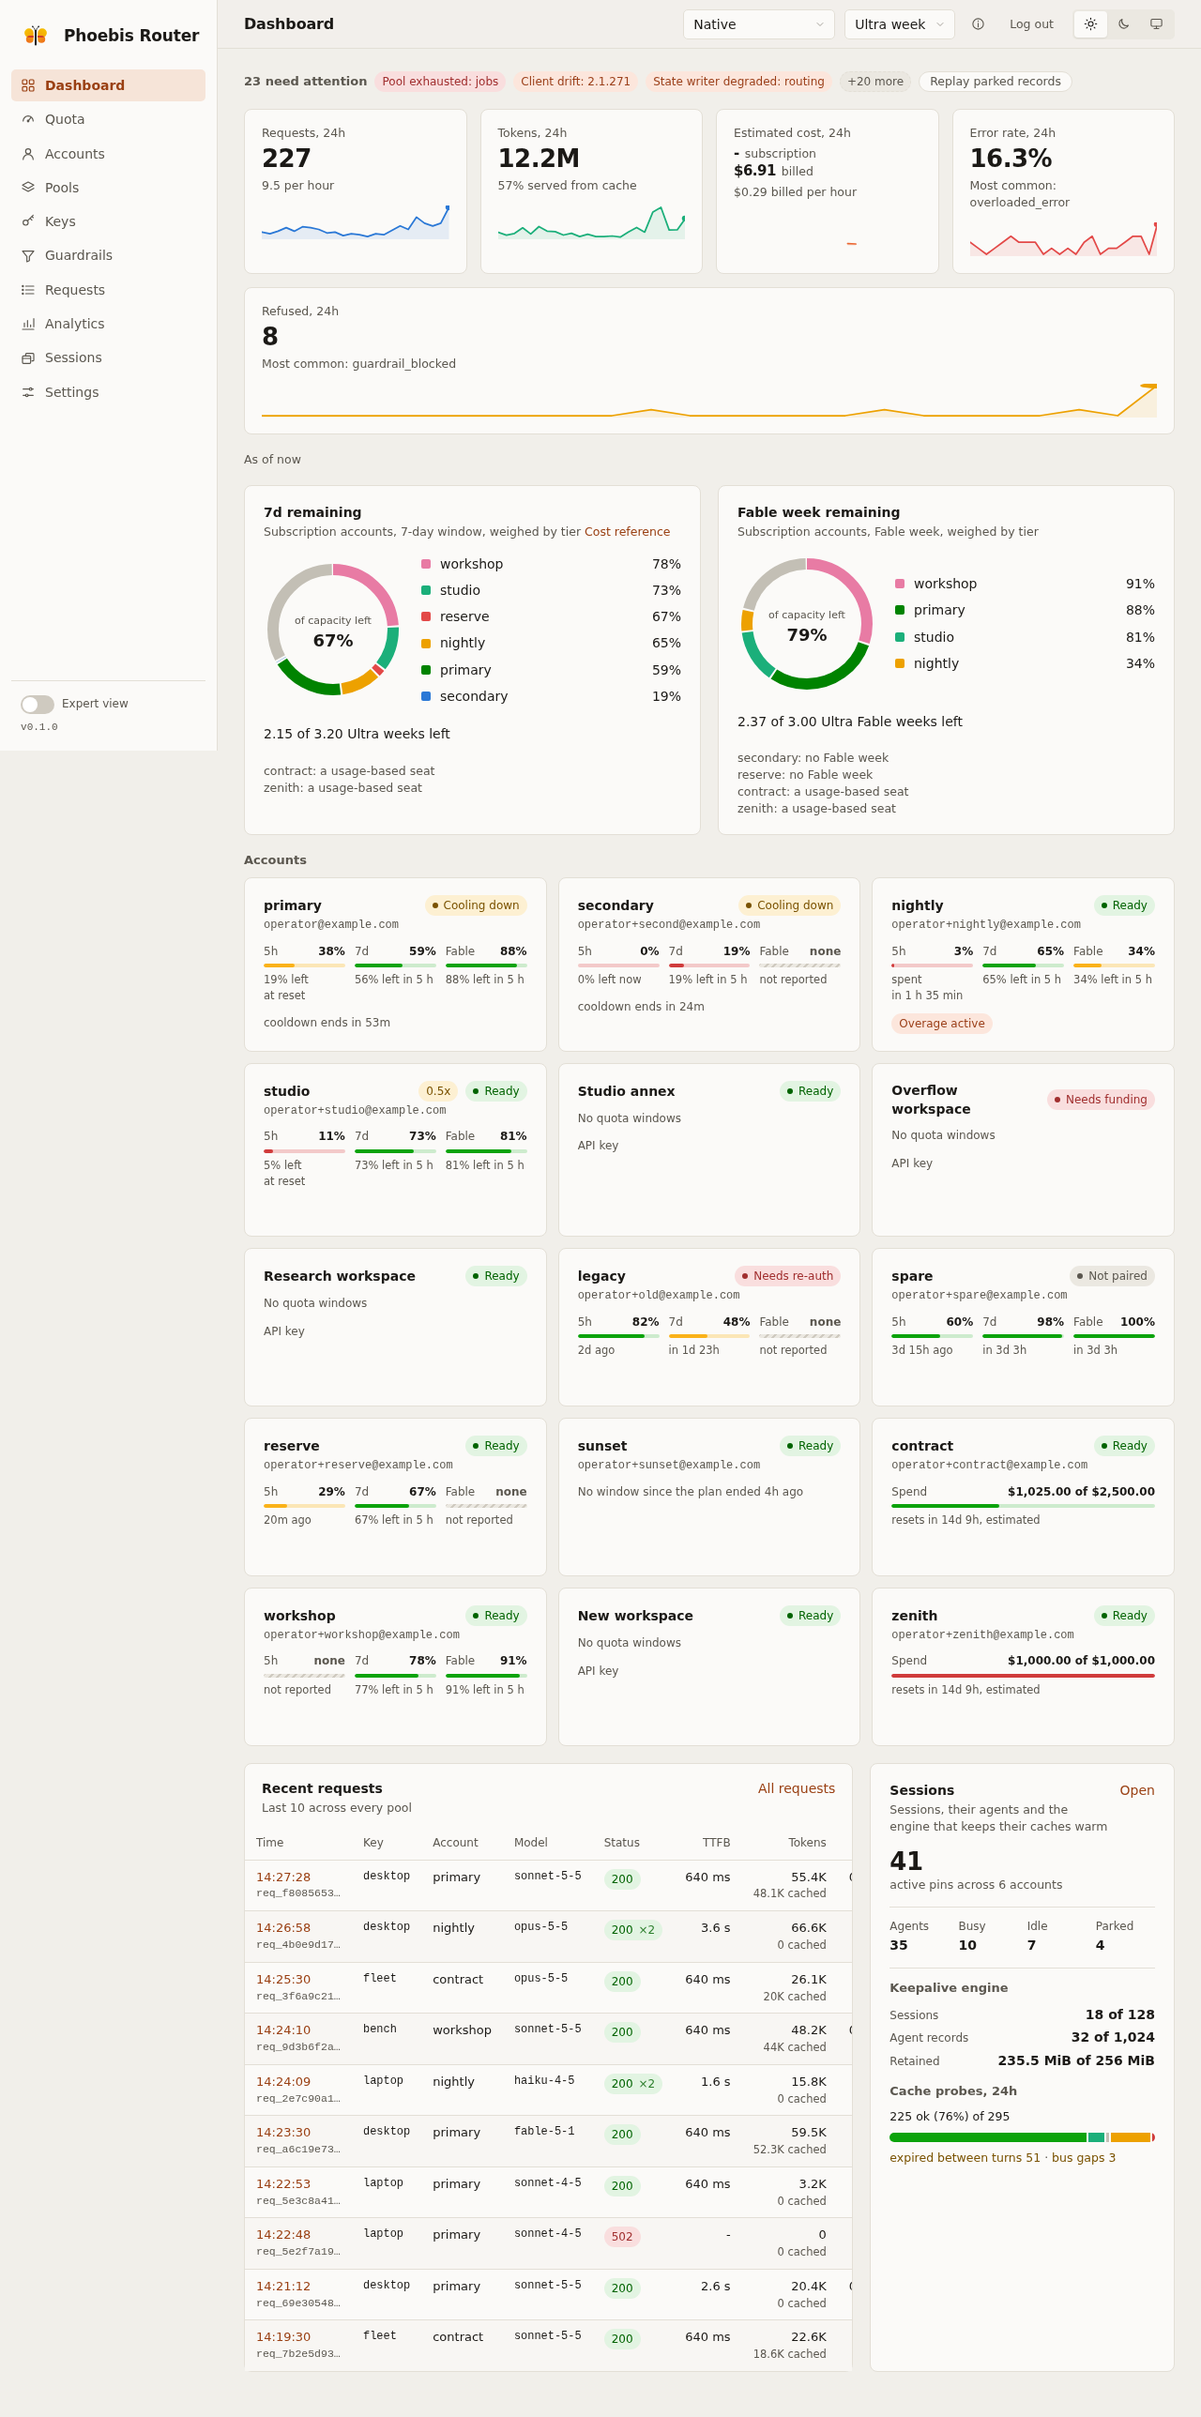
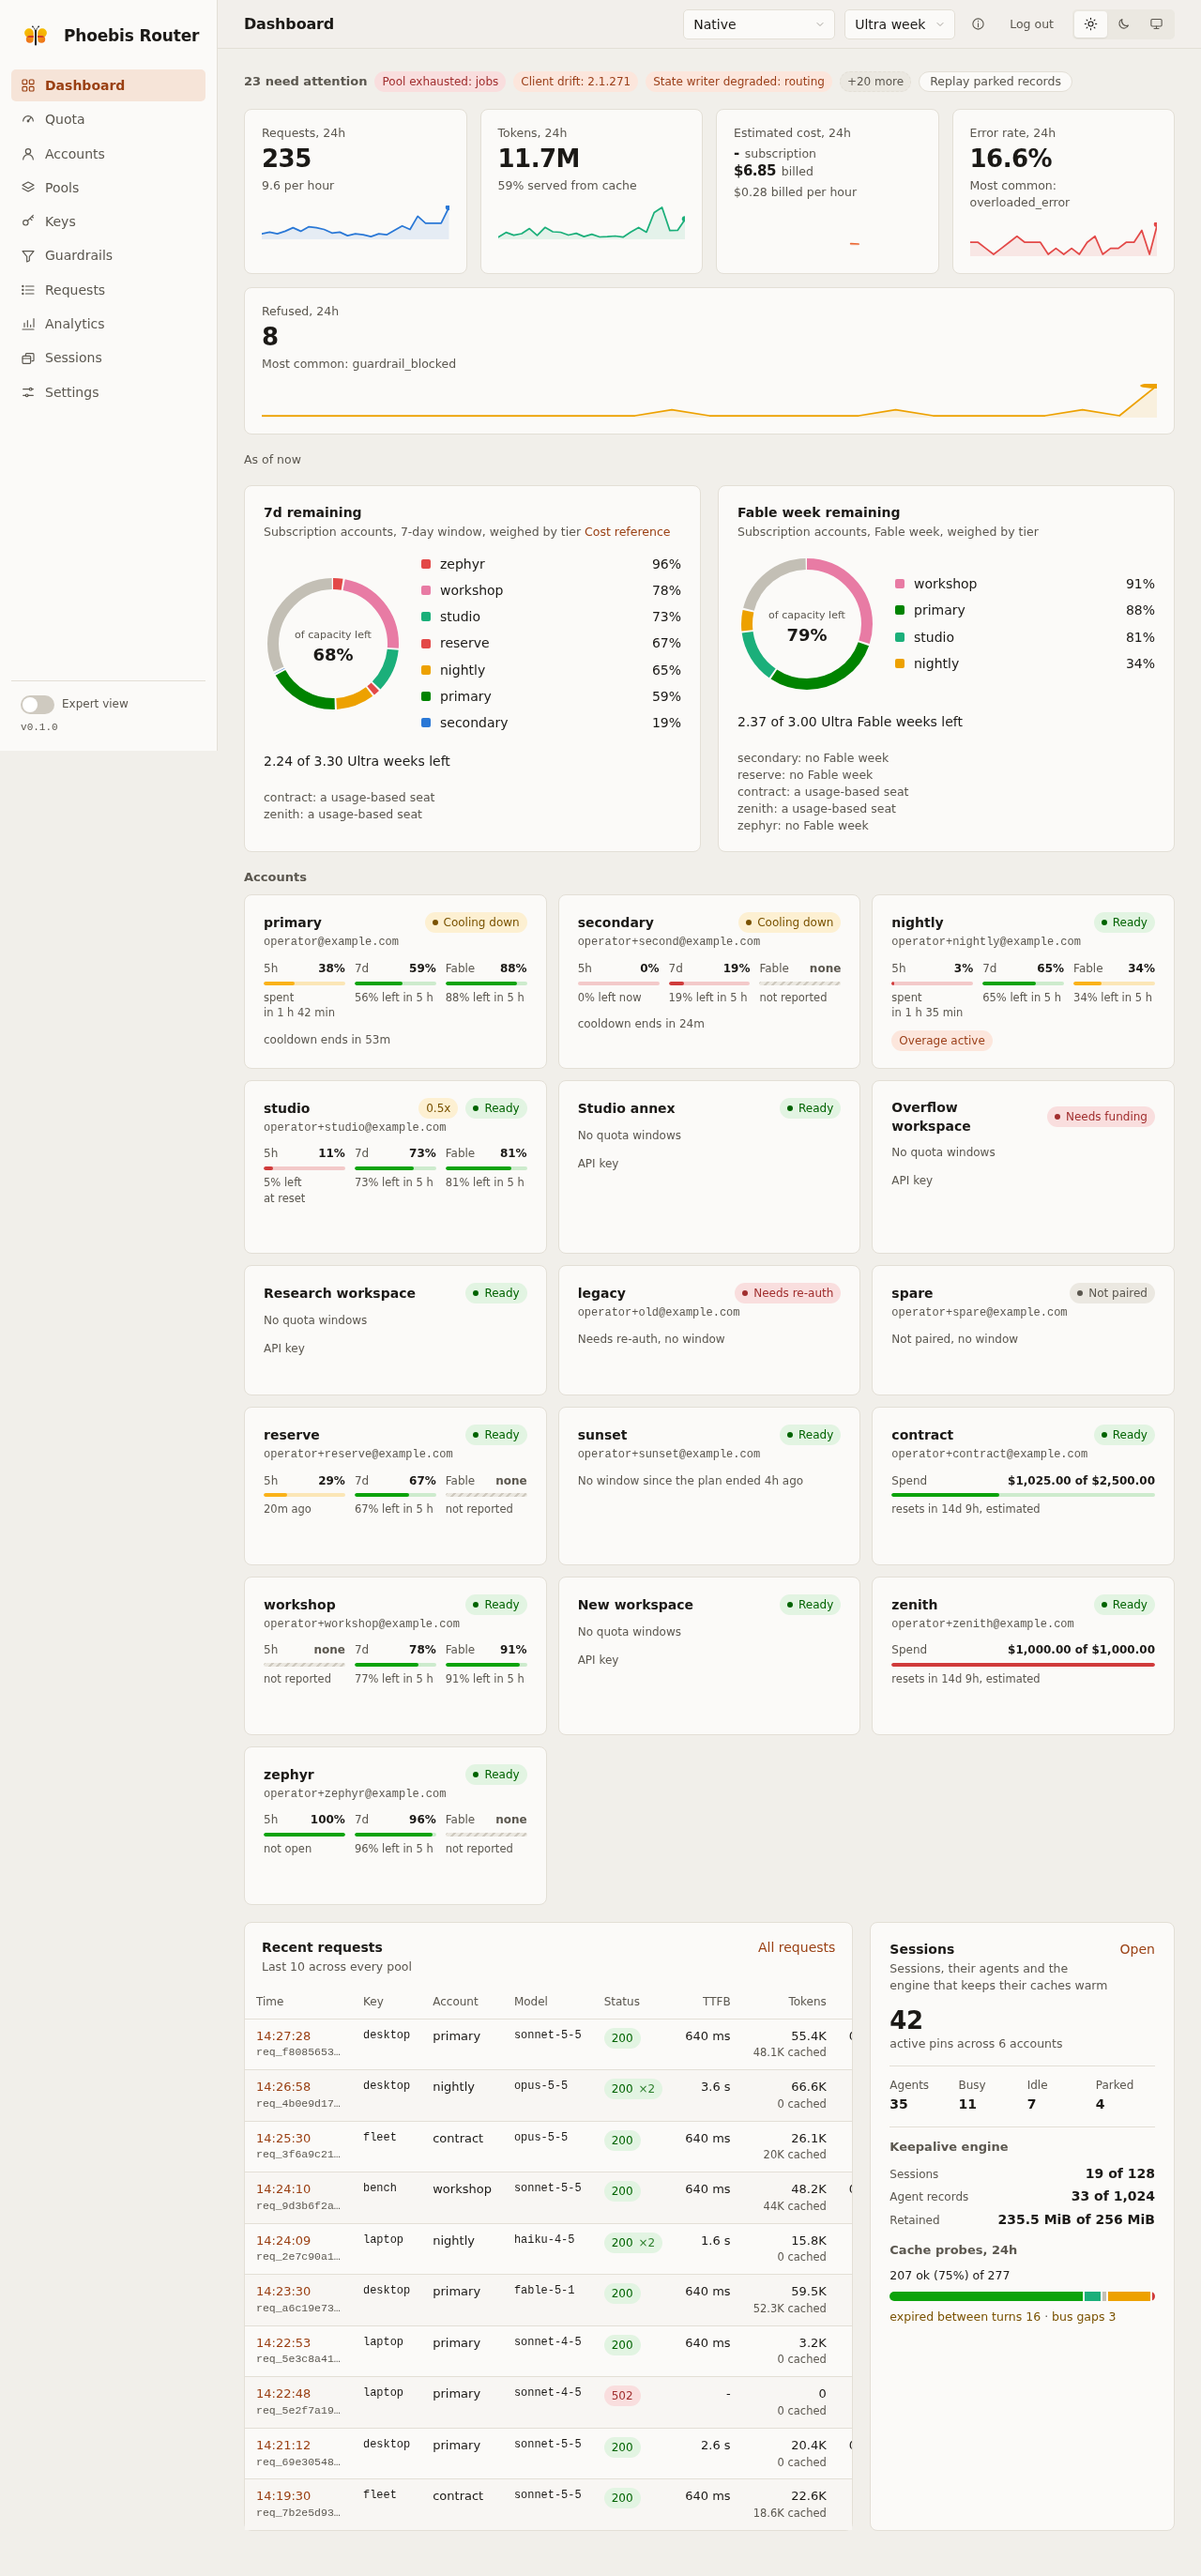
Divide the Dashboard's hourly notes by the hours covered
The dashboard route answers 25 hourly points, the 24 whole hours
before the current one and the current hour so far, and its day's
totals cover the same span. A divisor of 24 overstated each rate by
the minutes of the running hour. The Requests note, the dollar note
and both arms of the Native note now divide by the hours from the
first point's start to the instant the answer landed, floored at one
hour, and draw their skeleton while either instant is missing.

Each tile's hover ends with "The sparkline's last point is the
current hour so far.", since that point can read low beside the
whole hours before it. A failed reading's hover holds the failure's
text alone.

The mock answers the 25th point and reads its day from the hour a
full day back, as the route does. The story's day on the Dashboard
moves from 231 to 235 requests, its error rate from 16.0% to 16.6%
and its cost from $32.11 to $32.15. The consistency suite reads the
overview over that wider day, and the case on the hour a full day
back now expects that hour on the dashboard's day too, since the
dashboard no longer leaves it out.

The smoke's cost tile cases mount on a frozen clock, so their notes
divide by a known 24.5 hours: the Dollar equivalent note of a day
whose Dollar equivalent is $7.20 reads $0.29 an hour where it read
$0.30. The tile checks of the smoke and of the browser pass expect
the joined hovers.

The dashboard screenshots are taken again. They also carry the
[…]

diff --git a/web/src/pages/DashboardPage.tsx b/web/src/pages/DashboardPage.tsx
@@ -25,6 +25,7 @@ import { STATUS_LABEL, STATUS_TONE, accountCooldown, planExtraUsage, slowedOf } 
 import { REFUSED_TITLE, costHeaderTitle, glanceCellOf, requestCostUnit, revisionsTitle } from '@/lib/requests';
 import { ringFigures, ringLine, ringRowTitle, type RingFigures, type RingLeftOut, type RingRow, type RingWindow } from '@/lib/rings';
 import { slowDownChip } from '@/lib/selection';
+import { HOUR } from '@/lib/time';
 import type { UnitPosition, WeekPosition } from '@/lib/unit';
 
 /**
@@ -42,6 +43,15 @@ function asOfLine(reads: [string, Loaded<unknown>][], now: number): { text: stri
   return { text: failed ? `Last refresh of the ${failed[0]} failed: ${failed[1].error}. Showing data as of ${asOf}` : `As of ${asOf}`, title: fmtAbsolute(oldest) };
 }
 
+/**
+ * The hours an overview covers, from its first hourly point to the instant the answer landed, null where either is
+ * missing. The floor keeps the notes finite where the browser's clock runs far behind the router's.
+ */
+const hoursCovered = (o: Pick<Overview, 'hourly'>, fetchedAt: string | null): number | null => {
+  const first = o.hourly[0]?.at;
+  return first === undefined || fetchedAt === null ? null : Math.max(1, (Date.parse(fetchedAt) - Date.parse(first)) / HOUR);
+};
+
 /** The day's cost tile as `StatTile` draws it, a null value and note the skeleton. */
 interface CostTile {
   failure: WeekReading['failure'];
@@ -57,15 +67,16 @@ interface CostTile {
  * request was billed, and its spark leaves an unpriced hour a gap. The figure waits on the scale, so native draws the
  * skeleton while the cost model is out, and the reading's failure as a dash titled with it, noted unpriced where the
  * cost model sizes no chosen week. The dollar positions read their dollars, each with its rate per hour as its note.
+ * Each rate divides by `hours`, the span `hoursCovered` reads, so the note is the skeleton while that is null.
  */
-function costTileOf(unit: UnitPosition, o: Overview, reading: WeekReading): CostTile {
+function costTileOf(unit: UnitPosition, o: Overview, reading: WeekReading, hours: number | null): CostTile {
   const day = o.day24h;
   const tile = sumTileOf(unit, day, reading);
   if (unit !== 'native') {
     const dollars = dollarsUnder(unit, day);
     return {
       ...tile,
-      note: `${fmtUsd(dollars / 24)} per hour`,
+      note: hours === null ? null : `${fmtUsd(dollars / hours)} per hour`,
       spark: o.hourly.map((h) => dollarsUnder(unit, { billedUsd: h.billed, cost: h.cost, equivalent: h.equivalent })),
     };
   }
@@ -79,7 +90,7 @@ function costTileOf(unit: UnitPosition, o: Overview, reading: WeekReading): Cost
   if (scale === null) return { ...tile, note: null, spark: spark(1) };
   return {
     ...tile,
-    note: billed || !plan ? `${fmtUsd(day.billedUsd / 24)} billed per hour` : `${equivalentOrDash(day.equivalent === null ? null : day.equivalent / 24, week, scale)} per hour`,
+    note: hours === null ? null : billed || !plan ? `${fmtUsd(day.billedUsd / hours)} billed per hour` : `${equivalentOrDash(day.equivalent === null ? null : day.equivalent / hours, week, scale)} per hour`,
     spark: spark(scale),
   };
 }
@@ -106,7 +117,8 @@ export function DashboardPage() {
     const hourly = o?.hourly ?? [];
     return { errors: hourly.map((h) => h.errors), refused: hourly.map((h) => h.refused), requests: hourly.map((h) => h.requests), tokens: hourly.map((h) => h.tokens) };
   }, [o]);
-  const costTile = useMemo(() => (o ? costTileOf(unit, o, reading) : null), [o, reading, unit]);
+  const hours = o ? hoursCovered(o, overview.fetchedAt) : null;
+  const costTile = useMemo(() => (o ? costTileOf(unit, o, reading, hours) : null), [hours, o, reading, unit]);
   const accountsFailure = failedFirst(accounts) ? <ErrorState title="Could not load the accounts" body={accounts.error} retry={accounts.reload} /> : null;
   const ringFailure = accountsFailure ?? (failedFirst(settings) ? <ErrorState title="Could not load the settings" body={settings.error} retry={settings.reload} /> : null);
   const ringUnpriced = reading.failure?.unpriced ? reading.failure.text : null;
@@ -135,7 +147,7 @@ export function DashboardPage() {
         <ErrorState title="Could not load the 24-hour figures" body={overview.error} retry={overview.reload} />
       ) : (
         <div className="stat-grid stat-grid--day">
-          <StatTile label="Requests, 24h" value={o ? fmtInt(o.requests24h) : null} note={o ? `${(o.requests24h / 24).toFixed(1)} per hour` : null} spark={sparks.requests} title="Requests the router asked an account for. The refused requests are in the Refused tile." color={ink.series[0]} />
+          <StatTile label="Requests, 24h" value={o ? fmtInt(o.requests24h) : null} note={o && hours !== null ? `${(o.requests24h / hours).toFixed(1)} per hour` : null} spark={sparks.requests} title="Requests the router asked an account for. The refused requests are in the Refused tile." color={ink.series[0]} />
           <StatTile label="Tokens, 24h" value={o ? fmtCompact(o.tokens24h) : null} note={o ? `${fmtPct(o.tokens24h ? o.tokensCached24h / o.tokens24h : 0)} served from cache` : null} spark={sparks.tokens} color={ink.series[2]} />
           <StatTile label={`${UNIT_TILE_LABEL[dollarsOf(unit)]}, 24h`} value={costTile?.value ?? null} note={costTile?.note ?? null} spark={costTile?.spark ?? []} title={costTile?.title} failure={costTile?.failure} color={ink.series[1]} />
           <StatTile
@@ -216,10 +228,17 @@ export function DashboardPage() {
   );
 }
 
-/** A failure draws as `Tile` draws one: a dash, its note, and its text in the title. */
+/** The route's last hourly point is the hour still running, so a spark's last point can read low beside whole hours. */
+const SPARK_LAST_POINT = "The sparkline's last point is the current hour so far.";
+
+/**
+ * A failure draws as `Tile` draws one: a dash, its note, and its text alone in the title. Otherwise the title ends with
+ * the sentence on the spark's last point, or is that sentence where the tile has none.
+ */
 function StatTile({ label, value, note, spark, color, failure = null, title }: { color: string; failure?: WeekReading['failure']; label: string; note: string | null; spark: (number | null)[]; title?: string; value: ReactNode }) {
+  const hover = title === undefined ? SPARK_LAST_POINT : `${title}${title.endsWith('.') ? ' ' : '. '}${SPARK_LAST_POINT}`;
   return (
-    <div className="stat" title={failure?.text ?? title}>
+    <div className="stat" title={failure?.text ?? hover}>
       <span className="stat__label">{label}</span>
       <span className="stat__value">{failure ? '-' : (value ?? <Skeleton width={96} height={26} />)}</span>
       <span className="stat__note">{failure ? (failure.unpriced ? 'unpriced' : 'could not load') : (note ?? <Skeleton width={120} />)}</span>

diff --git a/web/src/mock/requests.ts b/web/src/mock/requests.ts
@@ -2585,9 +2585,9 @@ function classOfHour(seed: string): string {
 }
 
 /**
- * The first hour the dashboard draws: 24 hourly buckets, the current hour last. An account's or a pool's day total,
- * and a pool's 25 hourly buckets, start an hour earlier, on the hour a full day back, and the week on the hour seven
- * days back, as the routes total their rollups.
+ * The first hour the day's held probe is drawn from, the hour 23 hours before the current one. The dashboard's day, an
+ * account's or a pool's day total, and the dashboard's and a pool's 25 hourly points start an hour earlier, on the
+ * hour a full day back, and the week on the hour seven days back, as the routes total their rollups.
  */
 export const DAY_FROM = startOfHour(NOW) - 23 * HOUR;
 const TOTALS_FROM = startOfHour(NOW) - 24 * HOUR;
@@ -3098,8 +3098,8 @@ export const ALL_ROLLUPS: HourlyRollup[] = [...historicalRollups(), ...idleWarmi
 // A probe is the router's own traffic, which the routes count nowhere, but a billed probe draws real dollars, so the
 // day's and the totals' rows hold its row for the cost and billed sums alone, and every count over them skips it.
 const priced = (from: number) => REQUESTS.filter((r) => (r.kind !== 'probe' || !planPaid(r)) && Date.parse(r.at) >= from);
-/** The rows the dashboard reads. */
-export const DAY_ROWS: RequestLog[] = priced(DAY_FROM);
+/** The rows the dashboard's day reads, from the hour a full day back as the day totals below. */
+export const DAY_ROWS: RequestLog[] = priced(TOTALS_FROM);
 /** The rows an account's or a pool's day total reads, and a pool's hourly buckets. */
 const TOTAL_ROWS: RequestLog[] = priced(TOTALS_FROM);
 const COUNTED_ROLLUPS = ALL_ROLLUPS.filter((r) => r.kind !== 'probe');

diff --git a/web/src/mock/index.ts b/web/src/mock/index.ts
@@ -1191,7 +1191,8 @@ export class MockApi implements Api {
   }
 
   getOverview() {
-    // The route answers its 24 hourly buckets over an empty ledger too, at zero, so each spark draws a flat line.
+    // The route answers its 25 hourly points, the 24 whole hours before the current one and the current hour so far,
+    // over an empty ledger too, at zero, so each spark draws a flat line.
     const last24h = ledger().dayRows;
     const byHour = new Map<number, RequestLog[]>();
     for (const r of last24h) {
@@ -1201,7 +1202,7 @@ export class MockApi implements Api {
       else byHour.set(hour, [r]);
     }
     const hourlyMap = new Map<number, Overview['hourly'][number]>();
-    for (let i = 23; i >= 0; i -= 1) {
+    for (let i = 24; i >= 0; i -= 1) {
       const startMs = startOfHour(NOW - i * HOUR);
       const { billedUsd, equivalent } = requestSidesOf(byHour.get(startMs) ?? []);
       hourlyMap.set(startMs, { at: iso(startMs), billed: billedUsd, cost: 0, equivalent, errors: 0, refused: 0, requests: 0, tokens: 0 });
